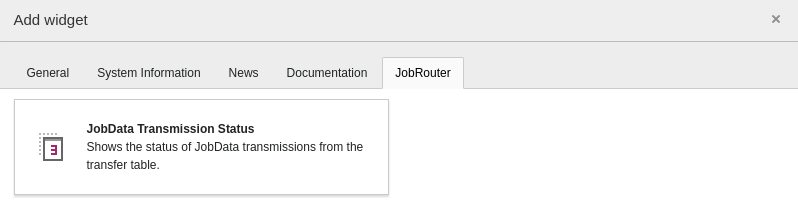
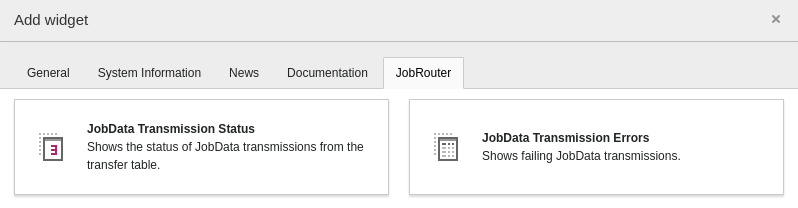
[FEATURE] Add dashboard widget "JobData Transmission Errors"

diff --git a/Tests/Unit/Domain/Model/TransferTest.php b/Tests/Unit/Domain/Model/TransferTest.php
@@ -27,7 +27,17 @@ class TransferTest extends TestCase
     /**
      * @test
      */
-    public function getAndSetTableUidImplementedCorrectly(): void
+    public function getCrDate(): void
+    {
+        $this->subject->_setProperty('crdate', 1615134986);
+
+        self::assertSame(1615134986, $this->subject->getCrdate());
+    }
+
+    /**
+     * @test
+     */
+    public function getAndSetTableUid(): void
     {
         self::assertSame(0, $this->subject->getTableUid());
 
@@ -39,7 +49,7 @@ class TransferTest extends TestCase
     /**
      * @test
      */
-    public function getAndSetCorrelationIdImplementedCorrectly(): void
+    public function getAndSetCorrelationId(): void
     {
         self::assertSame('', $this->subject->getCorrelationId());
 
@@ -51,7 +61,7 @@ class TransferTest extends TestCase
     /**
      * @test
      */
-    public function getAndSetDataImplementedCorrectly(): void
+    public function getAndSetData(): void
     {
         self::assertSame('', $this->subject->getData());
 
@@ -63,7 +73,7 @@ class TransferTest extends TestCase
     /**
      * @test
      */
-    public function isAndSetTransmitSuccessImplementedCorrectly(): void
+    public function isAndSetTransmitSuccess(): void
     {
         self::assertFalse($this->subject->isTransmitSuccess());
 
@@ -75,7 +85,7 @@ class TransferTest extends TestCase
     /**
      * @test
      */
-    public function getAndSetTransmitDateImplementedCorrectly(): void
+    public function getAndSetTransmitDate(): void
     {
         self::assertNull($this->subject->getTransmitDate());
 
@@ -88,7 +98,7 @@ class TransferTest extends TestCase
     /**
      * @test
      */
-    public function getAndSetTransmitMessageImplementedCorrectly(): void
+    public function getAndSetTransmitMessage(): void
     {
         self::assertSame('', $this->subject->getTransmitMessage());
 

diff --git a/Configuration/Services.php b/Configuration/Services.php
@@ -11,7 +11,9 @@ declare(strict_types=1);
 
 namespace Brotkrueml\JobRouterData;
 
+use Brotkrueml\JobRouterBase\Widgets\TransferReportWidget;
 use Brotkrueml\JobRouterBase\Widgets\TransferStatusWidget;
+use Brotkrueml\JobRouterData\Widgets\Provider\TransferReportDataProvider;
 use Brotkrueml\JobRouterData\Widgets\Provider\TransferStatusDataProvider;
 use Symfony\Component\DependencyInjection\Loader\Configurator\ContainerConfigurator;
 use Symfony\Component\DependencyInjection\Reference;
@@ -36,5 +38,20 @@ return function (ContainerConfigurator $configurator): void {
             'description' => Extension::LANGUAGE_PATH_DASHBOARD . ':widgets.statusOfDataTransmissions.description',
             'iconIdentifier' => 'content-widget-number',
             'height' => 'small',
+        ]);
+
+    $services
+        ->set('dashboard.widget.brotkrueml.jobrouter_data.transferReport')
+        ->class(TransferReportWidget::class)
+        ->arg('$view', new Reference('dashboard.views.widget'))
+        ->arg('$dataProvider', new Reference(TransferReportDataProvider::class))
+        ->tag('dashboard.widget', [
+            'identifier' => 'jobrouter_data.transferReport',
+            'groupNames' => 'jobrouter',
+            'title' => Extension::LANGUAGE_PATH_DASHBOARD . ':widgets.transferReport.title',
+            'description' => Extension::LANGUAGE_PATH_DASHBOARD . ':widgets.transferReport.description',
+            'iconIdentifier' => 'content-widget-table',
+            'height' => 'medium',
+            'width' => 'large',
         ]);
 };

diff --git a/Classes/Widgets/Provider/TransferReportDataProvider.php b/Classes/Widgets/Provider/TransferReportDataProvider.php
@@ -1,0 +1,50 @@
+<?php
+
+declare(strict_types=1);
+
+/*
+ * This file is part of the "jobrouter_data" extension for TYPO3 CMS.
+ *
+ * For the full copyright and license information, please read the
+ * LICENSE.txt file that was distributed with this source code.
+ */
+
+namespace Brotkrueml\JobRouterData\Widgets\Provider;
+
+use Brotkrueml\JobRouterBase\Domain\Model\TransferReportItem;
+use Brotkrueml\JobRouterData\Domain\Model\Transfer;
+use Brotkrueml\JobRouterData\Domain\Repository\TransferRepository;
+use TYPO3\CMS\Dashboard\Widgets\ListDataProviderInterface;
+
+/**
+ * @internal
+ */
+final class TransferReportDataProvider implements ListDataProviderInterface
+{
+    /**
+     * @var TransferRepository
+     */
+    private $transferRepository;
+
+    public function __construct(TransferRepository $transferRepository)
+    {
+        $this->transferRepository = $transferRepository;
+    }
+
+    public function getItems(): array
+    {
+        $transfers = $this->transferRepository->findErroneousTransfers();
+
+        $items = [];
+        foreach ($transfers as $transfer) {
+            /** @var Transfer $transfer */
+            $items[] = new TransferReportItem(
+                $transfer->getCrdate(),
+                $transfer->getTransmitMessage(),
+                $transfer->getCorrelationId()
+            );
+        }
+
+        return $items;
+    }
+}

diff --git a/Classes/Domain/Repository/TransferRepository.php b/Classes/Domain/Repository/TransferRepository.php
@@ -11,8 +11,25 @@ declare(strict_types=1);
 
 namespace Brotkrueml\JobRouterData\Domain\Repository;
 
+use TYPO3\CMS\Extbase\Persistence\QueryInterface;
 use TYPO3\CMS\Extbase\Persistence\Repository;
 
 class TransferRepository extends Repository
 {
+    public function findErroneousTransfers()
+    {
+        $query = $this->createQuery();
+
+        return $query
+            ->matching(
+                $query->logicalAnd([
+                    $query->equals('transmitSuccess', 0),
+                    $query->logicalNot(
+                        $query->equals('transmitMessage', '')
+                    )
+                ])
+            )
+            ->setOrderings(['crdate' => QueryInterface::ORDER_ASCENDING])
+            ->execute();
+    }
 }

diff --git a/Classes/Domain/Model/Transfer.php b/Classes/Domain/Model/Transfer.php
@@ -18,6 +18,11 @@ class Transfer extends AbstractEntity
     /**
      * @var int
      */
+    protected $crdate = 0;
+
+    /**
+     * @var int
+     */
     protected $tableUid = 0;
 
     /**
@@ -44,6 +49,11 @@ class Transfer extends AbstractEntity
      * @var string
      */
     protected $transmitMessage = '';
+
+    public function getCrdate(): int
+    {
+        return $this->crdate;
+    }
 
     public function getTableUid(): int
     {

diff --git a/Configuration/TCA/tx_jobrouterdata_domain_model_transfer.php b/Configuration/TCA/tx_jobrouterdata_domain_model_transfer.php
@@ -17,6 +17,12 @@ return [
         'iconfile' => 'EXT:' . \Brotkrueml\JobRouterData\Extension::KEY . '/Resources/Public/Icons/tx_jobrouterdata_domain_model_transfer.svg'
     ],
     'columns' => [
+        'crdate' => [
+            'label' => 'Crdate',
+            'config' => [
+                'type' => 'input',
+            ],
+        ],
         'table_uid' => [
             'label' => 'Table',
             'config' => [

diff --git a/ext_emconf.php b/ext_emconf.php
@@ -10,7 +10,7 @@ $EM_CONF[$_EXTKEY] = [
     'constraints' => [
         'depends' => [
             'typo3' => '10.4.11-10.4.99',
-            'jobrouter_base' => '0.1.0-0.1.99',
+            'jobrouter_base' => '0.1.1-0.1.99',
             'jobrouter_connector' => '0.12.0-0.12.99',
         ],
         'conflicts' => [],

diff --git a/Documentation/dashboard.rst b/Documentation/dashboard.rst
@@ -41,3 +41,15 @@ The status of the JobData transmissions can be shown with this widget:
    :class: with-border
 
    JobData Transmission Status widget
+
+
+JobData transmission errors
+===========================
+
+If errors occur when transmitting a JobData data set, they can be displayed with this widget:
+
+.. figure:: _images/dashboard-widget-jobdata-transmission-report.png
+   :alt: JobData Transmission Errors widget
+   :class: with-border
+
+   JobData Transmission Errors widget

diff --git a/CHANGELOG.md b/CHANGELOG.md
@@ -6,6 +6,9 @@ and this project adheres to [Semantic Versioning](https://semver.org/spec/v2.0.0
 
 ## [Unreleased]
 
+### Added
+- Dashboard widget "JobData Transmission Errors"
+
 ## [0.12.2] - 2021-03-02
 
 ### Changed
